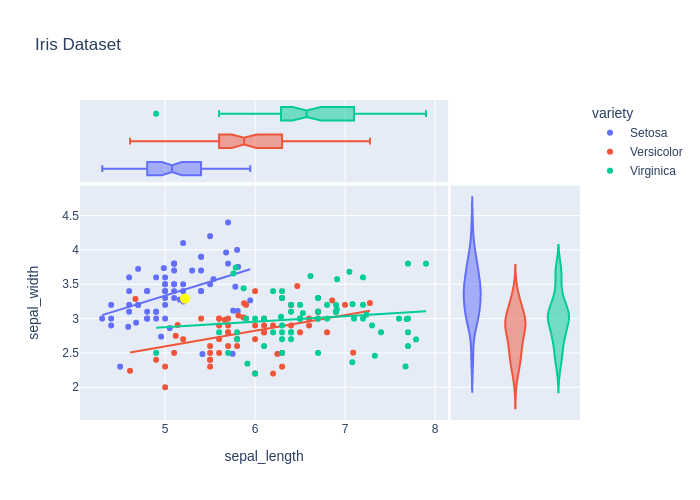
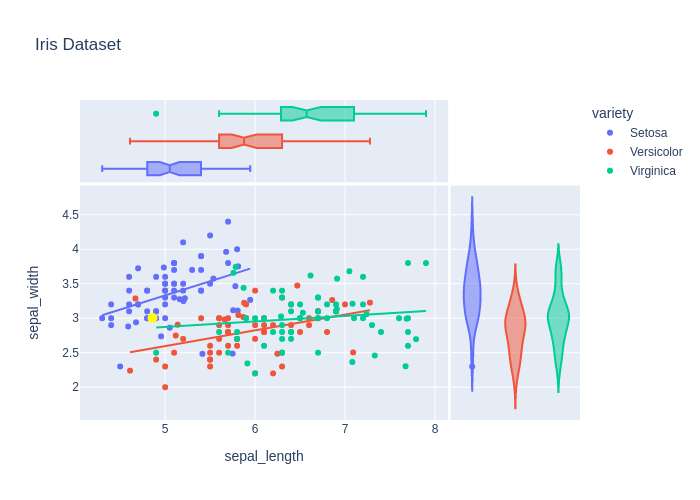
Automated graph published

diff --git a/assets/module1/html/index.html b/assets/module1/html/index.html
@@ -1,2 +1,2 @@
 <div>                        <script type="text/javascript">window.PlotlyConfig = {MathJaxConfig: 'local'};</script>
-        <script src="https://cdn.plot.ly/plotly-2.14.0.min.js"></script>                <div id="9e36800a-3b34-4723-9f38-1512f8856fb0" class="plotly-graph-div" style="height:100%; width:100%;"></div>            <script type="text/javascript">                                    window.PLOTLYENV=window.PLOTLYENV || {};                                    if (document.getElementById("9e36800a-3b34-4723-9f38-1512f8856fb0")) {                    Plotly.newPlot(                        "9e36800a-3b34-4723-9f38-1512f8856fb0",                        [{"hovertemplate":"variety=Setosa<br>sepal_length=%{x}<br>sepal_width=%{y}<extra></extra>","legendgroup":"Setosa","marker":{"color":"#636efa","symbol":"circle"},"mode":"markers","name":"Setosa","orientation":"v","showlegend":true,"x":[5.7,5.0,5.2,4.4,5.4,5.0,5.4,5.1,5.4,5.1,4.9,4.6,4.9,5.5,5.0,5.0,4.8,4.6,4.4,4.9,5.1,5.4,4.8,5.3,4.6,4.7,5.1,5.7,5.0,5.4,5.1,5.2,4.3,4.4,5.1,5.2,4.5,4.7,5.0,5.1,4.6,4.8,4.8,4.9,4.8,5.0,5.5,5.8,5.1,5.0,4.699539350414602,5.162807076989869,5.806816640770069,5.750154021366109,5.9456276792405935,5.678182494265637,5.780573675918045,5.7564843907007175,5.203711616532096,4.9552376142146795,4.676796886616282,4.589666446093098,5.051211752089524,5.536937030243903,5.811470592279962,4.985551259853457,5.4146729908847275,5.219559130208096],"xaxis":"x","y":[3.8,3.0,4.1,3.0,3.7,3.6,3.4,3.8,3.9,3.8,3.6,3.4,3.1,3.5,3.2,3.3,3.4,3.2,2.9,3.0,3.8,3.9,3.0,3.7,3.1,3.2,3.4,4.4,3.5,3.4,3.5,3.5,3.0,3.2,3.3,3.4,2.3,3.2,3.5,3.5,3.6,3.1,3.0,3.1,3.4,3.4,4.2,4.0,3.7,3.4,3.723655124379593,3.276133220743199,3.110153669496898,2.486839314450452,3.2651880571146235,3.96238612497271,3.464638931349484,3.1156627605998244,3.248892124865317,2.7372650288298774,2.9399118270607505,2.880148538126252,2.862281216018885,3.574418822591329,3.752241675217813,3.7352701566927387,2.4835906202389793,3.2895276088764325],"yaxis":"y","type":"scatter"},{"alignmentgroup":"True","hovertemplate":"variety=Setosa<br>sepal_length=%{x}<extra></extra>","legendgroup":"Setosa","marker":{"color":"#636efa","symbol":"circle"},"name":"Setosa","notched":true,"offsetgroup":"Setosa","showlegend":false,"x":[5.7,5.0,5.2,4.4,5.4,5.0,5.4,5.1,5.4,5.1,4.9,4.6,4.9,5.5,5.0,5.0,4.8,4.6,4.4,4.9,5.1,5.4,4.8,5.3,4.6,4.7,5.1,5.7,5.0,5.4,5.1,5.2,4.3,4.4,5.1,5.2,4.5,4.7,5.0,5.1,4.6,4.8,4.8,4.9,4.8,5.0,5.5,5.8,5.1,5.0,4.699539350414602,5.162807076989869,5.806816640770069,5.750154021366109,5.9456276792405935,5.678182494265637,5.780573675918045,5.7564843907007175,5.203711616532096,4.9552376142146795,4.676796886616282,4.589666446093098,5.051211752089524,5.536937030243903,5.811470592279962,4.985551259853457,5.4146729908847275,5.219559130208096],"xaxis":"x3","yaxis":"y3","type":"box"},{"alignmentgroup":"True","hovertemplate":"variety=Setosa<br>sepal_width=%{y}<extra></extra>","legendgroup":"Setosa","marker":{"color":"#636efa","symbol":"circle"},"name":"Setosa","offsetgroup":"Setosa","scalegroup":"y","showlegend":false,"xaxis":"x2","y":[3.8,3.0,4.1,3.0,3.7,3.6,3.4,3.8,3.9,3.8,3.6,3.4,3.1,3.5,3.2,3.3,3.4,3.2,2.9,3.0,3.8,3.9,3.0,3.7,3.1,3.2,3.4,4.4,3.5,3.4,3.5,3.5,3.0,3.2,3.3,3.4,2.3,3.2,3.5,3.5,3.6,3.1,3.0,3.1,3.4,3.4,4.2,4.0,3.7,3.4,3.723655124379593,3.276133220743199,3.110153669496898,2.486839314450452,3.2651880571146235,3.96238612497271,3.464638931349484,3.1156627605998244,3.248892124865317,2.7372650288298774,2.9399118270607505,2.880148538126252,2.862281216018885,3.574418822591329,3.752241675217813,3.7352701566927387,2.4835906202389793,3.2895276088764325],"yaxis":"y2","type":"violin"},{"hovertemplate":"<b>OLS trendline</b><br>sepal_width = 0.405631 * sepal_length + 1.3063<br>R<sup>2</sup>=0.164796<br><br>variety=Setosa<br>sepal_length=%{x}<br>sepal_width=%{y} <b>(trend)</b><extra></extra>","legendgroup":"Setosa","marker":{"color":"#636efa","symbol":"circle"},"mode":"lines","name":"Setosa","showlegend":false,"x":[4.3,4.4,4.4,4.4,4.5,4.589666446093098,4.6,4.6,4.6,4.6,4.676796886616282,4.699539350414602,4.7,4.7,4.8,4.8,4.8,4.8,4.8,4.9,4.9,4.9,4.9,4.9552376142146795,4.985551259853457,5.0,5.0,5.0,5.0,5.0,5.0,5.0,5.0,5.051211752089524,5.1,5.1,5.1,5.1,5.1,5.1,5.1,5.1,5.162807076989869,5.2,5.2,5.2,5.203711616532096,5.219559130208096,5.3,5.4,5.4,5.4,5.4,5.4,5.4146729908847275,5.5,5.5,5.536937030243903,5.678182494265637,5.7,5.7,5.750154021366109,5.7564843907007175,5.780573675918045,5.8,5.806816640770069,5.811470592279962,5.9456276792405935],"xaxis":"x","y":[3.0505084353418654,3.091071496918599,3.091071496918599,3.091071496918599,3.1316345584953327,3.1680060142377444,3.172197620072066,3.172197620072066,3.172197620072066,3.172197620072066,3.203348788479243,3.2125738280738214,3.2127606816487995,3.2127606816487995,3.2533237432255326,3.2533237432255326,3.2533237432255326,3.2533237432255326,3.2533237432255326,3.2938868048022663,3.2938868048022663,3.2938868048022663,3.2938868048022663,3.316292872269685,3.3285890150162953,3.334449866379,3.334449866379,3.334449866379,3.334449866379,3.334449866379,3.334449866379,3.334449866379,3.334449866379,3.3552229209135978,3.375012927955733,3.375012927955733,3.375012927955733,3.375012927955733,3.375012927955733,3.375012927955733,3.375012927955733,3.375012927955733,3.40048940126968,3.4155759895324667,3.4155759895324667,3.4155759895324667,3.417081534831873,3.42350977156265,3.4561390511092,3.4967021126859335,3.4967021126859335,3.4967021126859335,3.4967021126859335,3.4967021126859335,3.502653927013654,3.537265174262667,3.537265174262667,3.552247964585118,3.609541449130597,3.618391297416134,3.618391297416134,3.638735303986077,3.6413030955973085,3.651074447193408,3.658954358992867,3.661719397185895,3.663607182402604,3.718025404195997],"yaxis":"y","type":"scatter"},{"hovertemplate":"variety=Versicolor<br>sepal_length=%{x}<br>sepal_width=%{y}<extra></extra>","legendgroup":"Versicolor","marker":{"color":"#EF553B","symbol":"circle"},"mode":"markers","name":"Versicolor","orientation":"v","showlegend":true,"x":[5.6,6.0,6.4,6.3,5.9,5.5,5.9,5.8,5.7,6.3,6.6,6.5,6.2,6.1,5.6,5.8,5.0,5.7,6.4,5.5,6.3,5.2,6.8,6.1,5.7,5.0,5.7,6.7,5.5,5.1,5.7,6.9,6.6,6.7,5.6,7.0,6.0,6.1,5.6,4.9,5.4,6.1,6.7,5.6,5.5,6.0,5.5,6.0,6.2,5.8,6.8573386755067505,5.8782349607989435,6.4689894588721,7.276810343073624,5.139446204616327,7.090351228324162,4.6696109209307,6.248226118531116,5.814839575945616,5.118005992589361,4.609999008648176,5.86957722615493,5.662828279395641],"xaxis":"x","y":[2.7,2.9,2.9,3.3,3.2,2.5,3.0,2.7,2.6,2.3,3.0,2.8,2.2,3.0,2.5,2.7,2.0,2.8,3.2,2.4,2.5,2.7,2.8,2.9,2.9,2.3,2.8,3.1,2.3,2.5,3.0,3.1,2.9,3.0,2.9,3.2,2.2,2.8,3.0,2.4,3.0,2.8,3.1,3.0,2.4,3.4,2.6,2.7,2.9,2.6,3.2639658713312505,3.2232742101927987,3.473135931667606,3.226171473129222,2.905989064433107,2.503803983888786,3.2862947180268547,2.4850753277015176,3.045103887735798,2.7488411462004874,2.239757316816931,3.016997980554853,2.9821991083457675],"yaxis":"y","type":"scatter"},{"alignmentgroup":"True","hovertemplate":"variety=Versicolor<br>sepal_length=%{x}<extra></extra>","legendgroup":"Versicolor","marker":{"color":"#EF553B","symbol":"circle"},"name":"Versicolor","notched":true,"offsetgroup":"Versicolor","showlegend":false,"x":[5.6,6.0,6.4,6.3,5.9,5.5,5.9,5.8,5.7,6.3,6.6,6.5,6.2,6.1,5.6,5.8,5.0,5.7,6.4,5.5,6.3,5.2,6.8,6.1,5.7,5.0,5.7,6.7,5.5,5.1,5.7,6.9,6.6,6.7,5.6,7.0,6.0,6.1,5.6,4.9,5.4,6.1,6.7,5.6,5.5,6.0,5.5,6.0,6.2,5.8,6.8573386755067505,5.8782349607989435,6.4689894588721,7.276810343073624,5.139446204616327,7.090351228324162,4.6696109209307,6.248226118531116,5.814839575945616,5.118005992589361,4.609999008648176,5.86957722615493,5.662828279395641],"xaxis":"x3","yaxis":"y3","type":"box"},{"alignmentgroup":"True","hovertemplate":"variety=Versicolor<br>sepal_width=%{y}<extra></extra>","legendgroup":"Versicolor","marker":{"color":"#EF553B","symbol":"circle"},"name":"Versicolor","offsetgroup":"Versicolor","scalegroup":"y","showlegend":false,"xaxis":"x2","y":[2.7,2.9,2.9,3.3,3.2,2.5,3.0,2.7,2.6,2.3,3.0,2.8,2.2,3.0,2.5,2.7,2.0,2.8,3.2,2.4,2.5,2.7,2.8,2.9,2.9,2.3,2.8,3.1,2.3,2.5,3.0,3.1,2.9,3.0,2.9,3.2,2.2,2.8,3.0,2.4,3.0,2.8,3.1,3.0,2.4,3.4,2.6,2.7,2.9,2.6,3.2639658713312505,3.2232742101927987,3.473135931667606,3.226171473129222,2.905989064433107,2.503803983888786,3.2862947180268547,2.4850753277015176,3.045103887735798,2.7488411462004874,2.239757316816931,3.016997980554853,2.9821991083457675],"yaxis":"y2","type":"violin"},{"hovertemplate":"<b>OLS trendline</b><br>sepal_width = 0.228239 * sepal_length + 1.4548<br>R<sup>2</sup>=0.170212<br><br>variety=Versicolor<br>sepal_length=%{x}<br>sepal_width=%{y} <b>(trend)</b><extra></extra>","legendgroup":"Versicolor","marker":{"color":"#EF553B","symbol":"circle"},"mode":"lines","name":"Versicolor","showlegend":false,"x":[4.609999008648176,4.6696109209307,4.9,5.0,5.0,5.1,5.118005992589361,5.139446204616327,5.2,5.4,5.5,5.5,5.5,5.5,5.5,5.6,5.6,5.6,5.6,5.6,5.662828279395641,5.7,5.7,5.7,5.7,5.7,5.8,5.8,5.8,5.814839575945616,5.86957722615493,5.8782349607989435,5.9,5.9,6.0,6.0,6.0,6.0,6.1,6.1,6.1,6.1,6.2,6.2,6.248226118531116,6.3,6.3,6.3,6.4,6.4,6.4689894588721,6.5,6.6,6.6,6.7,6.7,6.7,6.8,6.8573386755067505,6.9,7.0,7.090351228324162,7.276810343073624],"xaxis":"x","y":[2.50698167709944,2.5205874149002385,2.573171089571302,2.595994946884107,2.595994946884107,2.618818804196912,2.6229284662532617,2.6278219496538595,2.6416426615097173,2.6872903761353277,2.7101142334481327,2.7101142334481327,2.7101142334481327,2.7101142334481327,2.7101142334481327,2.732938090760938,2.732938090760938,2.732938090760938,2.732938090760938,2.732938090760938,2.7472779276022896,2.755761948073743,2.755761948073743,2.755761948073743,2.755761948073743,2.755761948073743,2.778585805386548,2.778585805386548,2.778585805386548,2.781972769026201,2.7944660122063576,2.7964420412080284,2.8014096626993537,2.8014096626993537,2.824233520012159,2.824233520012159,2.824233520012159,2.824233520012159,2.847057377324964,2.847057377324964,2.847057377324964,2.847057377324964,2.869881234637769,2.869881234637769,2.8808882951188157,2.8927050919505746,2.8927050919505746,2.8927050919505746,2.91552894926338,2.91552894926338,2.9312750049172243,2.938352806576185,2.96117666388899,2.96117666388899,2.9840005212017955,2.9840005212017955,2.9840005212017955,3.0068243785146005,3.0199112759973135,3.029648235827406,3.052472093140211,3.0730937285732844,3.1156508908704215],"yaxis":"y","type":"scatter"},{"hovertemplate":"variety=Virginica<br>sepal_length=%{x}<br>sepal_width=%{y}<extra></extra>","legendgroup":"Virginica","marker":{"color":"#00cc96","symbol":"circle"},"mode":"markers","name":"Virginica","orientation":"v","showlegend":true,"x":[6.3,7.2,6.5,6.4,6.1,5.8,6.5,6.3,6.8,7.1,6.7,6.5,7.7,6.4,5.6,5.9,6.2,6.1,6.7,7.7,6.8,5.8,7.6,6.3,6.0,6.7,4.9,7.3,7.2,7.7,6.4,7.9,6.7,6.4,6.0,6.7,6.9,6.9,6.3,7.7,6.9,6.3,7.2,7.4,6.3,5.7,6.2,6.5,6.4,7.0809193435057844,7.083173588303286,6.531247271426038,7.672934707178735,6.616221396434428,6.2881911448763015,7.238706989249322,6.90906910202694,7.684772414682669,5.87232495943579,5.759085295754035,5.914173836043854,5.784761157227475,7.330621751983531,6.911589973694344,7.78951313611976,7.048675134000101],"xaxis":"x","y":[3.3,3.0,3.0,2.8,2.6,2.7,3.0,2.5,3.2,3.0,3.1,3.2,3.8,3.2,2.8,3.0,3.4,3.0,3.3,3.0,3.0,2.8,3.0,2.7,3.0,3.3,2.5,2.9,3.2,2.6,3.1,3.8,2.5,2.7,2.2,3.0,3.2,3.1,2.8,2.8,3.1,3.4,3.6,2.8,2.9,2.5,2.8,3.0,2.8,2.364774618887905,3.20977222695023,3.0790349799807095,2.303166383713453,3.618727239236774,3.0262152412720584,3.058037433028688,3.132485473954982,2.9929238355741736,3.440406497670909,3.6572642225436693,2.344429562939209,3.7433242436796372,2.458916076656201,3.5731428078520726,2.696475852448689,3.6811832985059967],"yaxis":"y","type":"scatter"},{"alignmentgroup":"True","hovertemplate":"variety=Virginica<br>sepal_length=%{x}<extra></extra>","legendgroup":"Virginica","marker":{"color":"#00cc96","symbol":"circle"},"name":"Virginica","notched":true,"offsetgroup":"Virginica","showlegend":false,"x":[6.3,7.2,6.5,6.4,6.1,5.8,6.5,6.3,6.8,7.1,6.7,6.5,7.7,6.4,5.6,5.9,6.2,6.1,6.7,7.7,6.8,5.8,7.6,6.3,6.0,6.7,4.9,7.3,7.2,7.7,6.4,7.9,6.7,6.4,6.0,6.7,6.9,6.9,6.3,7.7,6.9,6.3,7.2,7.4,6.3,5.7,6.2,6.5,6.4,7.0809193435057844,7.083173588303286,6.531247271426038,7.672934707178735,6.616221396434428,6.2881911448763015,7.238706989249322,6.90906910202694,7.684772414682669,5.87232495943579,5.759085295754035,5.914173836043854,5.784761157227475,7.330621751983531,6.911589973694344,7.78951313611976,7.048675134000101],"xaxis":"x3","yaxis":"y3","type":"box"},{"alignmentgroup":"True","hovertemplate":"variety=Virginica<br>sepal_width=%{y}<extra></extra>","legendgroup":"Virginica","marker":{"color":"#00cc96","symbol":"circle"},"name":"Virginica","offsetgroup":"Virginica","scalegroup":"y","showlegend":false,"xaxis":"x2","y":[3.3,3.0,3.0,2.8,2.6,2.7,3.0,2.5,3.2,3.0,3.1,3.2,3.8,3.2,2.8,3.0,3.4,3.0,3.3,3.0,3.0,2.8,3.0,2.7,3.0,3.3,2.5,2.9,3.2,2.6,3.1,3.8,2.5,2.7,2.2,3.0,3.2,3.1,2.8,2.8,3.1,3.4,3.6,2.8,2.9,2.5,2.8,3.0,2.8,2.364774618887905,3.20977222695023,3.0790349799807095,2.303166383713453,3.618727239236774,3.0262152412720584,3.058037433028688,3.132485473954982,2.9929238355741736,3.440406497670909,3.6572642225436693,2.344429562939209,3.7433242436796372,2.458916076656201,3.5731428078520726,2.696475852448689,3.6811832985059967],"yaxis":"y2","type":"violin"},{"hovertemplate":"<b>OLS trendline</b><br>sepal_width = 0.0800822 * sepal_length + 2.47295<br>R<sup>2</sup>=0.018895<br><br>variety=Virginica<br>sepal_length=%{x}<br>sepal_width=%{y} <b>(trend)</b><extra></extra>","legendgroup":"Virginica","marker":{"color":"#00cc96","symbol":"circle"},"mode":"lines","name":"Virginica","showlegend":false,"x":[4.9,5.6,5.7,5.759085295754035,5.784761157227475,5.8,5.8,5.87232495943579,5.9,5.914173836043854,6.0,6.0,6.1,6.1,6.2,6.2,6.2881911448763015,6.3,6.3,6.3,6.3,6.3,6.3,6.4,6.4,6.4,6.4,6.4,6.5,6.5,6.5,6.5,6.531247271426038,6.616221396434428,6.7,6.7,6.7,6.7,6.7,6.8,6.8,6.9,6.9,6.9,6.90906910202694,6.911589973694344,7.048675134000101,7.0809193435057844,7.083173588303286,7.1,7.2,7.2,7.2,7.238706989249322,7.3,7.330621751983531,7.4,7.6,7.672934707178735,7.684772414682669,7.7,7.7,7.7,7.7,7.78951313611976,7.9],"xaxis":"x","y":[2.865355961001777,2.9214134781292027,2.9294216948616922,2.9341533734027077,2.9362095520374343,2.9374299115941813,2.9374299115941813,2.943221851097485,2.945438128326671,2.9465731998363704,2.9534463450591604,2.9534463450591604,2.9614545617916495,2.9614545617916495,2.969462778524139,2.969462778524139,2.976525316544697,2.9774709952566285,2.9774709952566285,2.9774709952566285,2.9774709952566285,2.9774709952566285,2.9774709952566285,2.985479211989118,2.985479211989118,2.985479211989118,2.985479211989118,2.985479211989118,2.9934874287216076,2.9934874287216076,2.9934874287216076,2.9934874287216076,2.9959897779403937,3.002794690037602,3.009503862186586,3.009503862186586,3.009503862186586,3.009503862186586,3.009503862186586,3.0175120789190757,3.0175120789190757,3.0255202956515648,3.0255202956515648,3.0255202956515648,3.026246568997573,3.0264484458642467,3.037426522609612,3.040008708790505,3.0401892335995697,3.041536729116544,3.0495449458490334,3.0495449458490334,3.0495449458490334,3.0526446854387403,3.0575531625815224,3.0600054188476493,3.065561379314012,3.081577812778991,3.08741858220307,3.0883665714761435,3.08958602951148,3.08958602951148,3.08958602951148,3.08958602951148,3.096754435455999,3.105602462976459],"yaxis":"y","type":"scatter"},{"hovertemplate":"sepal_length=%{x}<br>sepal_width=%{y}<extra></extra>","legendgroup":"","marker":{"color":"yellow","size":10,"symbol":"circle"},"mode":"markers","name":"","orientation":"v","showlegend":false,"x":[5.219559130208096],"xaxis":"x","y":[3.2895276088764325],"yaxis":"y","type":"scatter"}],                        {"template":{"data":{"histogram2dcontour":[{"type":"histogram2dcontour","colorbar":{"outlinewidth":0,"ticks":""},"colorscale":[[0.0,"#0d0887"],[0.1111111111111111,"#46039f"],[0.2222222222222222,"#7201a8"],[0.3333333333333333,"#9c179e"],[0.4444444444444444,"#bd3786"],[0.5555555555555556,"#d8576b"],[0.6666666666666666,"#ed7953"],[0.7777777777777778,"#fb9f3a"],[0.8888888888888888,"#fdca26"],[1.0,"#f0f921"]]}],"choropleth":[{"type":"choropleth","colorbar":{"outlinewidth":0,"ticks":""}}],"histogram2d":[{"type":"histogram2d","colorbar":{"outlinewidth":0,"ticks":""},"colorscale":[[0.0,"#0d0887"],[0.1111111111111111,"#46039f"],[0.2222222222222222,"#7201a8"],[0.3333333333333333,"#9c179e"],[0.4444444444444444,"#bd3786"],[0.5555555555555556,"#d8576b"],[0.6666666666666666,"#ed7953"],[0.7777777777777778,"#fb9f3a"],[0.8888888888888888,"#fdca26"],[1.0,"#f0f921"]]}],"heatmap":[{"type":"heatmap","colorbar":{"outlinewidth":0,"ticks":""},"colorscale":[[0.0,"#0d0887"],[0.1111111111111111,"#46039f"],[0.2222222222222222,"#7201a8"],[0.3333333333333333,"#9c179e"],[0.4444444444444444,"#bd3786"],[0.5555555555555556,"#d8576b"],[0.6666666666666666,"#ed7953"],[0.7777777777777778,"#fb9f3a"],[0.8888888888888888,"#fdca26"],[1.0,"#f0f921"]]}],"heatmapgl":[{"type":"heatmapgl","colorbar":{"outlinewidth":0,"ticks":""},"colorscale":[[0.0,"#0d0887"],[0.1111111111111111,"#46039f"],[0.2222222222222222,"#7201a8"],[0.3333333333333333,"#9c179e"],[0.4444444444444444,"#bd3786"],[0.5555555555555556,"#d8576b"],[0.6666666666666666,"#ed7953"],[0.7777777777777778,"#fb9f3a"],[0.8888888888888888,"#fdca26"],[1.0,"#f0f921"]]}],"contourcarpet":[{"type":"contourcarpet","colorbar":{"outlinewidth":0,"ticks":""}}],"contour":[{"type":"contour","colorbar":{"outlinewidth":0,"ticks":""},"colorscale":[[0.0,"#0d0887"],[0.1111111111111111,"#46039f"],[0.2222222222222222,"#7201a8"],[0.3333333333333333,"#9c179e"],[0.4444444444444444,"#bd3786"],[0.5555555555555556,"#d8576b"],[0.6666666666666666,"#ed7953"],[0.7777777777777778,"#fb9f3a"],[0.8888888888888888,"#fdca26"],[1.0,"#f0f921"]]}],"surface":[{"type":"surface","colorbar":{"outlinewidth":0,"ticks":""},"colorscale":[[0.0,"#0d0887"],[0.1111111111111111,"#46039f"],[0.2222222222222222,"#7201a8"],[0.3333333333333333,"#9c179e"],[0.4444444444444444,"#bd3786"],[0.5555555555555556,"#d8576b"],[0.6666666666666666,"#ed7953"],[0.7777777777777778,"#fb9f3a"],[0.8888888888888888,"#fdca26"],[1.0,"#f0f921"]]}],"mesh3d":[{"type":"mesh3d","colorbar":{"outlinewidth":0,"ticks":""}}],"scatter":[{"fillpattern":{"fillmode":"overlay","size":10,"solidity":0.2},"type":"scatter"}],"parcoords":[{"type":"parcoords","line":{"colorbar":{"outlinewidth":0,"ticks":""}}}],"scatterpolargl":[{"type":"scatterpolargl","marker":{"colorbar":{"outlinewidth":0,"ticks":""}}}],"bar":[{"error_x":{"color":"#2a3f5f"},"error_y":{"color":"#2a3f5f"},"marker":{"line":{"color":"#E5ECF6","width":0.5},"pattern":{"fillmode":"overlay","size":10,"solidity":0.2}},"type":"bar"}],"scattergeo":[{"type":"scattergeo","marker":{"colorbar":{"outlinewidth":0,"ticks":""}}}],"scatterpolar":[{"type":"scatterpolar","marker":{"colorbar":{"outlinewidth":0,"ticks":""}}}],"histogram":[{"marker":{"pattern":{"fillmode":"overlay","size":10,"solidity":0.2}},"type":"histogram"}],"scattergl":[{"type":"scattergl","marker":{"colorbar":{"outlinewidth":0,"ticks":""}}}],"scatter3d":[{"type":"scatter3d","line":{"colorbar":{"outlinewidth":0,"ticks":""}},"marker":{"colorbar":{"outlinewidth":0,"ticks":""}}}],"scattermapbox":[{"type":"scattermapbox","marker":{"colorbar":{"outlinewidth":0,"ticks":""}}}],"scatterternary":[{"type":"scatterternary","marker":{"colorbar":{"outlinewidth":0,"ticks":""}}}],"scattercarpet":[{"type":"scattercarpet","marker":{"colorbar":{"outlinewidth":0,"ticks":""}}}],"carpet":[{"aaxis":{"endlinecolor":"#2a3f5f","gridcolor":"white","linecolor":"white","minorgridcolor":"white","startlinecolor":"#2a3f5f"},"baxis":{"endlinecolor":"#2a3f5f","gridcolor":"white","linecolor":"white","minorgridcolor":"white","startlinecolor":"#2a3f5f"},"type":"carpet"}],"table":[{"cells":{"fill":{"color":"#EBF0F8"},"line":{"color":"white"}},"header":{"fill":{"color":"#C8D4E3"},"line":{"color":"white"}},"type":"table"}],"barpolar":[{"marker":{"line":{"color":"#E5ECF6","width":0.5},"pattern":{"fillmode":"overlay","size":10,"solidity":0.2}},"type":"barpolar"}],"pie":[{"automargin":true,"type":"pie"}]},"layout":{"autotypenumbers":"strict","colorway":["#636efa","#EF553B","#00cc96","#ab63fa","#FFA15A","#19d3f3","#FF6692","#B6E880","#FF97FF","#FECB52"],"font":{"color":"#2a3f5f"},"hovermode":"closest","hoverlabel":{"align":"left"},"paper_bgcolor":"white","plot_bgcolor":"#E5ECF6","polar":{"bgcolor":"#E5ECF6","angularaxis":{"gridcolor":"white","linecolor":"white","ticks":""},"radialaxis":{"gridcolor":"white","linecolor":"white","ticks":""}},"ternary":{"bgcolor":"#E5ECF6","aaxis":{"gridcolor":"white","linecolor":"white","ticks":""},"baxis":{"gridcolor":"white","linecolor":"white","ticks":""},"caxis":{"gridcolor":"white","linecolor":"white","ticks":""}},"coloraxis":{"colorbar":{"outlinewidth":0,"ticks":""}},"colorscale":{"sequential":[[0.0,"#0d0887"],[0.1111111111111111,"#46039f"],[0.2222222222222222,"#7201a8"],[0.3333333333333333,"#9c179e"],[0.4444444444444444,"#bd3786"],[0.5555555555555556,"#d8576b"],[0.6666666666666666,"#ed7953"],[0.7777777777777778,"#fb9f3a"],[0.8888888888888888,"#fdca26"],[1.0,"#f0f921"]],"sequentialminus":[[0.0,"#0d0887"],[0.1111111111111111,"#46039f"],[0.2222222222222222,"#7201a8"],[0.3333333333333333,"#9c179e"],[0.4444444444444444,"#bd3786"],[0.5555555555555556,"#d8576b"],[0.6666666666666666,"#ed7953"],[0.7777777777777778,"#fb9f3a"],[0.8888888888888888,"#fdca26"],[1.0,"#f0f921"]],"diverging":[[0,"#8e0152"],[0.1,"#c51b7d"],[0.2,"#de77ae"],[0.3,"#f1b6da"],[0.4,"#fde0ef"],[0.5,"#f7f7f7"],[0.6,"#e6f5d0"],[0.7,"#b8e186"],[0.8,"#7fbc41"],[0.9,"#4d9221"],[1,"#276419"]]},"xaxis":{"gridcolor":"white","linecolor":"white","ticks":"","title":{"standoff":15},"zerolinecolor":"white","automargin":true,"zerolinewidth":2},"yaxis":{"gridcolor":"white","linecolor":"white","ticks":"","title":{"standoff":15},"zerolinecolor":"white","automargin":true,"zerolinewidth":2},"scene":{"xaxis":{"backgroundcolor":"#E5ECF6","gridcolor":"white","linecolor":"white","showbackground":true,"ticks":"","zerolinecolor":"white","gridwidth":2},"yaxis":{"backgroundcolor":"#E5ECF6","gridcolor":"white","linecolor":"white","showbackground":true,"ticks":"","zerolinecolor":"white","gridwidth":2},"zaxis":{"backgroundcolor":"#E5ECF6","gridcolor":"white","linecolor":"white","showbackground":true,"ticks":"","zerolinecolor":"white","gridwidth":2}},"shapedefaults":{"line":{"color":"#2a3f5f"}},"annotationdefaults":{"arrowcolor":"#2a3f5f","arrowhead":0,"arrowwidth":1},"geo":{"bgcolor":"white","landcolor":"#E5ECF6","subunitcolor":"white","showland":true,"showlakes":true,"lakecolor":"white"},"title":{"x":0.05},"mapbox":{"style":"light"}}},"xaxis":{"anchor":"y","domain":[0.0,0.7363],"title":{"text":"sepal_length"}},"yaxis":{"anchor":"x","domain":[0.0,0.7326],"title":{"text":"sepal_width"}},"xaxis2":{"anchor":"y2","domain":[0.7413,1.0],"matches":"x2","showticklabels":false,"showline":false,"ticks":"","showgrid":false},"yaxis2":{"anchor":"x2","domain":[0.0,0.7326],"matches":"y","showticklabels":false,"showgrid":true},"xaxis3":{"anchor":"y3","domain":[0.0,0.7363],"matches":"x","showticklabels":false,"showgrid":true},"yaxis3":{"anchor":"x3","domain":[0.7426,1.0],"matches":"y3","showticklabels":false,"showline":false,"ticks":"","showgrid":false},"xaxis4":{"anchor":"y4","domain":[0.7413,1.0],"matches":"x2","showticklabels":false,"showgrid":false,"showline":false,"ticks":""},"yaxis4":{"anchor":"x4","domain":[0.7426,1.0],"matches":"y3","showticklabels":false,"showline":false,"ticks":"","showgrid":true},"legend":{"title":{"text":"variety"},"tracegroupgap":0},"title":{"text":"Iris Dataset"}},                        {"responsive": true}                    )                };                            </script>        </div>
+        <script src="https://cdn.plot.ly/plotly-2.14.0.min.js"></script>                <div id="e5be6df6-5253-4a8c-a125-88aa2a010157" class="plotly-graph-div" style="height:100%; width:100%;"></div>            <script type="text/javascript">                                    window.PLOTLYENV=window.PLOTLYENV || {};                                    if (document.getElementById("e5be6df6-5253-4a8c-a125-88aa2a010157")) {                    Plotly.newPlot(                        "e5be6df6-5253-4a8c-a125-88aa2a010157",                        [{"hovertemplate":"variety=Setosa<br>sepal_length=%{x}<br>sepal_width=%{y}<extra></extra>","legendgroup":"Setosa","marker":{"color":"#636efa","symbol":"circle"},"mode":"markers","name":"Setosa","orientation":"v","showlegend":true,"x":[5.7,5.0,5.2,4.4,5.4,5.0,5.4,5.1,5.4,5.1,4.9,4.6,4.9,5.5,5.0,5.0,4.8,4.6,4.4,4.9,5.1,5.4,4.8,5.3,4.6,4.7,5.1,5.7,5.0,5.4,5.1,5.2,4.3,4.4,5.1,5.2,4.5,4.7,5.0,5.1,4.6,4.8,4.8,4.9,4.8,5.0,5.5,5.8,5.1,5.0,4.699539350414602,5.162807076989869,5.806816640770069,5.750154021366109,5.9456276792405935,5.678182494265637,5.780573675918045,5.7564843907007175,5.203711616532096,4.9552376142146795,4.676796886616282,4.589666446093098,5.051211752089524,5.536937030243903,5.811470592279962,4.985551259853457,5.4146729908847275,5.219559130208096,4.859736966382209],"xaxis":"x","y":[3.8,3.0,4.1,3.0,3.7,3.6,3.4,3.8,3.9,3.8,3.6,3.4,3.1,3.5,3.2,3.3,3.4,3.2,2.9,3.0,3.8,3.9,3.0,3.7,3.1,3.2,3.4,4.4,3.5,3.4,3.5,3.5,3.0,3.2,3.3,3.4,2.3,3.2,3.5,3.5,3.6,3.1,3.0,3.1,3.4,3.4,4.2,4.0,3.7,3.4,3.723655124379593,3.276133220743199,3.110153669496898,2.486839314450452,3.2651880571146235,3.96238612497271,3.464638931349484,3.1156627605998244,3.248892124865317,2.7372650288298774,2.9399118270607505,2.880148538126252,2.862281216018885,3.574418822591329,3.752241675217813,3.7352701566927387,2.4835906202389793,3.2895276088764325,3.0049918169979595],"yaxis":"y","type":"scatter"},{"alignmentgroup":"True","hovertemplate":"variety=Setosa<br>sepal_length=%{x}<extra></extra>","legendgroup":"Setosa","marker":{"color":"#636efa","symbol":"circle"},"name":"Setosa","notched":true,"offsetgroup":"Setosa","showlegend":false,"x":[5.7,5.0,5.2,4.4,5.4,5.0,5.4,5.1,5.4,5.1,4.9,4.6,4.9,5.5,5.0,5.0,4.8,4.6,4.4,4.9,5.1,5.4,4.8,5.3,4.6,4.7,5.1,5.7,5.0,5.4,5.1,5.2,4.3,4.4,5.1,5.2,4.5,4.7,5.0,5.1,4.6,4.8,4.8,4.9,4.8,5.0,5.5,5.8,5.1,5.0,4.699539350414602,5.162807076989869,5.806816640770069,5.750154021366109,5.9456276792405935,5.678182494265637,5.780573675918045,5.7564843907007175,5.203711616532096,4.9552376142146795,4.676796886616282,4.589666446093098,5.051211752089524,5.536937030243903,5.811470592279962,4.985551259853457,5.4146729908847275,5.219559130208096,4.859736966382209],"xaxis":"x3","yaxis":"y3","type":"box"},{"alignmentgroup":"True","hovertemplate":"variety=Setosa<br>sepal_width=%{y}<extra></extra>","legendgroup":"Setosa","marker":{"color":"#636efa","symbol":"circle"},"name":"Setosa","offsetgroup":"Setosa","scalegroup":"y","showlegend":false,"xaxis":"x2","y":[3.8,3.0,4.1,3.0,3.7,3.6,3.4,3.8,3.9,3.8,3.6,3.4,3.1,3.5,3.2,3.3,3.4,3.2,2.9,3.0,3.8,3.9,3.0,3.7,3.1,3.2,3.4,4.4,3.5,3.4,3.5,3.5,3.0,3.2,3.3,3.4,2.3,3.2,3.5,3.5,3.6,3.1,3.0,3.1,3.4,3.4,4.2,4.0,3.7,3.4,3.723655124379593,3.276133220743199,3.110153669496898,2.486839314450452,3.2651880571146235,3.96238612497271,3.464638931349484,3.1156627605998244,3.248892124865317,2.7372650288298774,2.9399118270607505,2.880148538126252,2.862281216018885,3.574418822591329,3.752241675217813,3.7352701566927387,2.4835906202389793,3.2895276088764325,3.0049918169979595],"yaxis":"y2","type":"violin"},{"hovertemplate":"<b>OLS trendline</b><br>sepal_width = 0.411375 * sepal_length + 1.27311<br>R<sup>2</sup>=0.168271<br><br>variety=Setosa<br>sepal_length=%{x}<br>sepal_width=%{y} <b>(trend)</b><extra></extra>","legendgroup":"Setosa","marker":{"color":"#636efa","symbol":"circle"},"mode":"lines","name":"Setosa","showlegend":false,"x":[4.3,4.4,4.4,4.4,4.5,4.589666446093098,4.6,4.6,4.6,4.6,4.676796886616282,4.699539350414602,4.7,4.7,4.8,4.8,4.8,4.8,4.8,4.859736966382209,4.9,4.9,4.9,4.9,4.9552376142146795,4.985551259853457,5.0,5.0,5.0,5.0,5.0,5.0,5.0,5.0,5.051211752089524,5.1,5.1,5.1,5.1,5.1,5.1,5.1,5.1,5.162807076989869,5.2,5.2,5.2,5.203711616532096,5.219559130208096,5.3,5.4,5.4,5.4,5.4,5.4,5.4146729908847275,5.5,5.5,5.536937030243903,5.678182494265637,5.7,5.7,5.750154021366109,5.7564843907007175,5.780573675918045,5.8,5.806816640770069,5.811470592279962,5.9456276792405935],"xaxis":"x","y":[3.0420219982213546,3.083159534607605,3.083159534607605,3.083159534607605,3.124297070993855,3.1611836378816607,3.165434607380105,3.165434607380105,3.165434607380105,3.165434607380105,3.1970269545553855,3.206382643875549,3.2065721437663557,3.2065721437663557,3.2477096801526057,3.2477096801526057,3.2477096801526057,3.2477096801526057,3.2477096801526057,3.272283996434129,3.288847216538856,3.288847216538856,3.288847216538856,3.288847216538856,3.311570610185316,3.324040897189967,3.329984752925106,3.329984752925106,3.329984752925106,3.329984752925106,3.329984752925106,3.329984752925106,3.329984752925106,3.329984752925106,3.35105200607497,3.371122289311356,3.371122289311356,3.371122289311356,3.371122289311356,3.371122289311356,3.371122289311356,3.371122289311356,3.371122289311356,3.3969595734612037,3.412259825697606,3.412259825697606,3.412259825697606,3.4137866932990155,3.4203059700037954,3.453397362083856,3.494534898470107,3.494534898470107,3.494534898470107,3.494534898470107,3.494534898470107,3.5005710054342627,3.535672434856357,3.535672434856357,3.550867419112943,3.6089723232688113,3.617947507628857,3.617947507628857,3.638579636417508,3.641183794405916,3.6510935328773817,3.6590850440151073,3.6618892420922142,3.663803763087995,3.718992683551158],"yaxis":"y","type":"scatter"},{"hovertemplate":"variety=Versicolor<br>sepal_length=%{x}<br>sepal_width=%{y}<extra></extra>","legendgroup":"Versicolor","marker":{"color":"#EF553B","symbol":"circle"},"mode":"markers","name":"Versicolor","orientation":"v","showlegend":true,"x":[5.6,6.0,6.4,6.3,5.9,5.5,5.9,5.8,5.7,6.3,6.6,6.5,6.2,6.1,5.6,5.8,5.0,5.7,6.4,5.5,6.3,5.2,6.8,6.1,5.7,5.0,5.7,6.7,5.5,5.1,5.7,6.9,6.6,6.7,5.6,7.0,6.0,6.1,5.6,4.9,5.4,6.1,6.7,5.6,5.5,6.0,5.5,6.0,6.2,5.8,6.8573386755067505,5.8782349607989435,6.4689894588721,7.276810343073624,5.139446204616327,7.090351228324162,4.6696109209307,6.248226118531116,5.814839575945616,5.118005992589361,4.609999008648176,5.86957722615493,5.662828279395641],"xaxis":"x","y":[2.7,2.9,2.9,3.3,3.2,2.5,3.0,2.7,2.6,2.3,3.0,2.8,2.2,3.0,2.5,2.7,2.0,2.8,3.2,2.4,2.5,2.7,2.8,2.9,2.9,2.3,2.8,3.1,2.3,2.5,3.0,3.1,2.9,3.0,2.9,3.2,2.2,2.8,3.0,2.4,3.0,2.8,3.1,3.0,2.4,3.4,2.6,2.7,2.9,2.6,3.2639658713312505,3.2232742101927987,3.473135931667606,3.226171473129222,2.905989064433107,2.503803983888786,3.2862947180268547,2.4850753277015176,3.045103887735798,2.7488411462004874,2.239757316816931,3.016997980554853,2.9821991083457675],"yaxis":"y","type":"scatter"},{"alignmentgroup":"True","hovertemplate":"variety=Versicolor<br>sepal_length=%{x}<extra></extra>","legendgroup":"Versicolor","marker":{"color":"#EF553B","symbol":"circle"},"name":"Versicolor","notched":true,"offsetgroup":"Versicolor","showlegend":false,"x":[5.6,6.0,6.4,6.3,5.9,5.5,5.9,5.8,5.7,6.3,6.6,6.5,6.2,6.1,5.6,5.8,5.0,5.7,6.4,5.5,6.3,5.2,6.8,6.1,5.7,5.0,5.7,6.7,5.5,5.1,5.7,6.9,6.6,6.7,5.6,7.0,6.0,6.1,5.6,4.9,5.4,6.1,6.7,5.6,5.5,6.0,5.5,6.0,6.2,5.8,6.8573386755067505,5.8782349607989435,6.4689894588721,7.276810343073624,5.139446204616327,7.090351228324162,4.6696109209307,6.248226118531116,5.814839575945616,5.118005992589361,4.609999008648176,5.86957722615493,5.662828279395641],"xaxis":"x3","yaxis":"y3","type":"box"},{"alignmentgroup":"True","hovertemplate":"variety=Versicolor<br>sepal_width=%{y}<extra></extra>","legendgroup":"Versicolor","marker":{"color":"#EF553B","symbol":"circle"},"name":"Versicolor","offsetgroup":"Versicolor","scalegroup":"y","showlegend":false,"xaxis":"x2","y":[2.7,2.9,2.9,3.3,3.2,2.5,3.0,2.7,2.6,2.3,3.0,2.8,2.2,3.0,2.5,2.7,2.0,2.8,3.2,2.4,2.5,2.7,2.8,2.9,2.9,2.3,2.8,3.1,2.3,2.5,3.0,3.1,2.9,3.0,2.9,3.2,2.2,2.8,3.0,2.4,3.0,2.8,3.1,3.0,2.4,3.4,2.6,2.7,2.9,2.6,3.2639658713312505,3.2232742101927987,3.473135931667606,3.226171473129222,2.905989064433107,2.503803983888786,3.2862947180268547,2.4850753277015176,3.045103887735798,2.7488411462004874,2.239757316816931,3.016997980554853,2.9821991083457675],"yaxis":"y2","type":"violin"},{"hovertemplate":"<b>OLS trendline</b><br>sepal_width = 0.228239 * sepal_length + 1.4548<br>R<sup>2</sup>=0.170212<br><br>variety=Versicolor<br>sepal_length=%{x}<br>sepal_width=%{y} <b>(trend)</b><extra></extra>","legendgroup":"Versicolor","marker":{"color":"#EF553B","symbol":"circle"},"mode":"lines","name":"Versicolor","showlegend":false,"x":[4.609999008648176,4.6696109209307,4.9,5.0,5.0,5.1,5.118005992589361,5.139446204616327,5.2,5.4,5.5,5.5,5.5,5.5,5.5,5.6,5.6,5.6,5.6,5.6,5.662828279395641,5.7,5.7,5.7,5.7,5.7,5.8,5.8,5.8,5.814839575945616,5.86957722615493,5.8782349607989435,5.9,5.9,6.0,6.0,6.0,6.0,6.1,6.1,6.1,6.1,6.2,6.2,6.248226118531116,6.3,6.3,6.3,6.4,6.4,6.4689894588721,6.5,6.6,6.6,6.7,6.7,6.7,6.8,6.8573386755067505,6.9,7.0,7.090351228324162,7.276810343073624],"xaxis":"x","y":[2.50698167709944,2.5205874149002385,2.573171089571302,2.595994946884107,2.595994946884107,2.618818804196912,2.6229284662532617,2.6278219496538595,2.6416426615097173,2.6872903761353277,2.7101142334481327,2.7101142334481327,2.7101142334481327,2.7101142334481327,2.7101142334481327,2.732938090760938,2.732938090760938,2.732938090760938,2.732938090760938,2.732938090760938,2.7472779276022896,2.755761948073743,2.755761948073743,2.755761948073743,2.755761948073743,2.755761948073743,2.778585805386548,2.778585805386548,2.778585805386548,2.781972769026201,2.7944660122063576,2.7964420412080284,2.8014096626993537,2.8014096626993537,2.824233520012159,2.824233520012159,2.824233520012159,2.824233520012159,2.847057377324964,2.847057377324964,2.847057377324964,2.847057377324964,2.869881234637769,2.869881234637769,2.8808882951188157,2.8927050919505746,2.8927050919505746,2.8927050919505746,2.91552894926338,2.91552894926338,2.9312750049172243,2.938352806576185,2.96117666388899,2.96117666388899,2.9840005212017955,2.9840005212017955,2.9840005212017955,3.0068243785146005,3.0199112759973135,3.029648235827406,3.052472093140211,3.0730937285732844,3.1156508908704215],"yaxis":"y","type":"scatter"},{"hovertemplate":"variety=Virginica<br>sepal_length=%{x}<br>sepal_width=%{y}<extra></extra>","legendgroup":"Virginica","marker":{"color":"#00cc96","symbol":"circle"},"mode":"markers","name":"Virginica","orientation":"v","showlegend":true,"x":[6.3,7.2,6.5,6.4,6.1,5.8,6.5,6.3,6.8,7.1,6.7,6.5,7.7,6.4,5.6,5.9,6.2,6.1,6.7,7.7,6.8,5.8,7.6,6.3,6.0,6.7,4.9,7.3,7.2,7.7,6.4,7.9,6.7,6.4,6.0,6.7,6.9,6.9,6.3,7.7,6.9,6.3,7.2,7.4,6.3,5.7,6.2,6.5,6.4,7.0809193435057844,7.083173588303286,6.531247271426038,7.672934707178735,6.616221396434428,6.2881911448763015,7.238706989249322,6.90906910202694,7.684772414682669,5.87232495943579,5.759085295754035,5.914173836043854,5.784761157227475,7.330621751983531,6.911589973694344,7.78951313611976,7.048675134000101],"xaxis":"x","y":[3.3,3.0,3.0,2.8,2.6,2.7,3.0,2.5,3.2,3.0,3.1,3.2,3.8,3.2,2.8,3.0,3.4,3.0,3.3,3.0,3.0,2.8,3.0,2.7,3.0,3.3,2.5,2.9,3.2,2.6,3.1,3.8,2.5,2.7,2.2,3.0,3.2,3.1,2.8,2.8,3.1,3.4,3.6,2.8,2.9,2.5,2.8,3.0,2.8,2.364774618887905,3.20977222695023,3.0790349799807095,2.303166383713453,3.618727239236774,3.0262152412720584,3.058037433028688,3.132485473954982,2.9929238355741736,3.440406497670909,3.6572642225436693,2.344429562939209,3.7433242436796372,2.458916076656201,3.5731428078520726,2.696475852448689,3.6811832985059967],"yaxis":"y","type":"scatter"},{"alignmentgroup":"True","hovertemplate":"variety=Virginica<br>sepal_length=%{x}<extra></extra>","legendgroup":"Virginica","marker":{"color":"#00cc96","symbol":"circle"},"name":"Virginica","notched":true,"offsetgroup":"Virginica","showlegend":false,"x":[6.3,7.2,6.5,6.4,6.1,5.8,6.5,6.3,6.8,7.1,6.7,6.5,7.7,6.4,5.6,5.9,6.2,6.1,6.7,7.7,6.8,5.8,7.6,6.3,6.0,6.7,4.9,7.3,7.2,7.7,6.4,7.9,6.7,6.4,6.0,6.7,6.9,6.9,6.3,7.7,6.9,6.3,7.2,7.4,6.3,5.7,6.2,6.5,6.4,7.0809193435057844,7.083173588303286,6.531247271426038,7.672934707178735,6.616221396434428,6.2881911448763015,7.238706989249322,6.90906910202694,7.684772414682669,5.87232495943579,5.759085295754035,5.914173836043854,5.784761157227475,7.330621751983531,6.911589973694344,7.78951313611976,7.048675134000101],"xaxis":"x3","yaxis":"y3","type":"box"},{"alignmentgroup":"True","hovertemplate":"variety=Virginica<br>sepal_width=%{y}<extra></extra>","legendgroup":"Virginica","marker":{"color":"#00cc96","symbol":"circle"},"name":"Virginica","offsetgroup":"Virginica","scalegroup":"y","showlegend":false,"xaxis":"x2","y":[3.3,3.0,3.0,2.8,2.6,2.7,3.0,2.5,3.2,3.0,3.1,3.2,3.8,3.2,2.8,3.0,3.4,3.0,3.3,3.0,3.0,2.8,3.0,2.7,3.0,3.3,2.5,2.9,3.2,2.6,3.1,3.8,2.5,2.7,2.2,3.0,3.2,3.1,2.8,2.8,3.1,3.4,3.6,2.8,2.9,2.5,2.8,3.0,2.8,2.364774618887905,3.20977222695023,3.0790349799807095,2.303166383713453,3.618727239236774,3.0262152412720584,3.058037433028688,3.132485473954982,2.9929238355741736,3.440406497670909,3.6572642225436693,2.344429562939209,3.7433242436796372,2.458916076656201,3.5731428078520726,2.696475852448689,3.6811832985059967],"yaxis":"y2","type":"violin"},{"hovertemplate":"<b>OLS trendline</b><br>sepal_width = 0.0800822 * sepal_length + 2.47295<br>R<sup>2</sup>=0.018895<br><br>variety=Virginica<br>sepal_length=%{x}<br>sepal_width=%{y} <b>(trend)</b><extra></extra>","legendgroup":"Virginica","marker":{"color":"#00cc96","symbol":"circle"},"mode":"lines","name":"Virginica","showlegend":false,"x":[4.9,5.6,5.7,5.759085295754035,5.784761157227475,5.8,5.8,5.87232495943579,5.9,5.914173836043854,6.0,6.0,6.1,6.1,6.2,6.2,6.2881911448763015,6.3,6.3,6.3,6.3,6.3,6.3,6.4,6.4,6.4,6.4,6.4,6.5,6.5,6.5,6.5,6.531247271426038,6.616221396434428,6.7,6.7,6.7,6.7,6.7,6.8,6.8,6.9,6.9,6.9,6.90906910202694,6.911589973694344,7.048675134000101,7.0809193435057844,7.083173588303286,7.1,7.2,7.2,7.2,7.238706989249322,7.3,7.330621751983531,7.4,7.6,7.672934707178735,7.684772414682669,7.7,7.7,7.7,7.7,7.78951313611976,7.9],"xaxis":"x","y":[2.865355961001777,2.9214134781292027,2.9294216948616922,2.9341533734027077,2.9362095520374343,2.9374299115941813,2.9374299115941813,2.943221851097485,2.945438128326671,2.9465731998363704,2.9534463450591604,2.9534463450591604,2.9614545617916495,2.9614545617916495,2.969462778524139,2.969462778524139,2.976525316544697,2.9774709952566285,2.9774709952566285,2.9774709952566285,2.9774709952566285,2.9774709952566285,2.9774709952566285,2.985479211989118,2.985479211989118,2.985479211989118,2.985479211989118,2.985479211989118,2.9934874287216076,2.9934874287216076,2.9934874287216076,2.9934874287216076,2.9959897779403937,3.002794690037602,3.009503862186586,3.009503862186586,3.009503862186586,3.009503862186586,3.009503862186586,3.0175120789190757,3.0175120789190757,3.0255202956515648,3.0255202956515648,3.0255202956515648,3.026246568997573,3.0264484458642467,3.037426522609612,3.040008708790505,3.0401892335995697,3.041536729116544,3.0495449458490334,3.0495449458490334,3.0495449458490334,3.0526446854387403,3.0575531625815224,3.0600054188476493,3.065561379314012,3.081577812778991,3.08741858220307,3.0883665714761435,3.08958602951148,3.08958602951148,3.08958602951148,3.08958602951148,3.096754435455999,3.105602462976459],"yaxis":"y","type":"scatter"},{"hovertemplate":"sepal_length=%{x}<br>sepal_width=%{y}<extra></extra>","legendgroup":"","marker":{"color":"yellow","size":10,"symbol":"circle"},"mode":"markers","name":"","orientation":"v","showlegend":false,"x":[4.859736966382209],"xaxis":"x","y":[3.0049918169979595],"yaxis":"y","type":"scatter"}],                        {"template":{"data":{"histogram2dcontour":[{"type":"histogram2dcontour","colorbar":{"outlinewidth":0,"ticks":""},"colorscale":[[0.0,"#0d0887"],[0.1111111111111111,"#46039f"],[0.2222222222222222,"#7201a8"],[0.3333333333333333,"#9c179e"],[0.4444444444444444,"#bd3786"],[0.5555555555555556,"#d8576b"],[0.6666666666666666,"#ed7953"],[0.7777777777777778,"#fb9f3a"],[0.8888888888888888,"#fdca26"],[1.0,"#f0f921"]]}],"choropleth":[{"type":"choropleth","colorbar":{"outlinewidth":0,"ticks":""}}],"histogram2d":[{"type":"histogram2d","colorbar":{"outlinewidth":0,"ticks":""},"colorscale":[[0.0,"#0d0887"],[0.1111111111111111,"#46039f"],[0.2222222222222222,"#7201a8"],[0.3333333333333333,"#9c179e"],[0.4444444444444444,"#bd3786"],[0.5555555555555556,"#d8576b"],[0.6666666666666666,"#ed7953"],[0.7777777777777778,"#fb9f3a"],[0.8888888888888888,"#fdca26"],[1.0,"#f0f921"]]}],"heatmap":[{"type":"heatmap","colorbar":{"outlinewidth":0,"ticks":""},"colorscale":[[0.0,"#0d0887"],[0.1111111111111111,"#46039f"],[0.2222222222222222,"#7201a8"],[0.3333333333333333,"#9c179e"],[0.4444444444444444,"#bd3786"],[0.5555555555555556,"#d8576b"],[0.6666666666666666,"#ed7953"],[0.7777777777777778,"#fb9f3a"],[0.8888888888888888,"#fdca26"],[1.0,"#f0f921"]]}],"heatmapgl":[{"type":"heatmapgl","colorbar":{"outlinewidth":0,"ticks":""},"colorscale":[[0.0,"#0d0887"],[0.1111111111111111,"#46039f"],[0.2222222222222222,"#7201a8"],[0.3333333333333333,"#9c179e"],[0.4444444444444444,"#bd3786"],[0.5555555555555556,"#d8576b"],[0.6666666666666666,"#ed7953"],[0.7777777777777778,"#fb9f3a"],[0.8888888888888888,"#fdca26"],[1.0,"#f0f921"]]}],"contourcarpet":[{"type":"contourcarpet","colorbar":{"outlinewidth":0,"ticks":""}}],"contour":[{"type":"contour","colorbar":{"outlinewidth":0,"ticks":""},"colorscale":[[0.0,"#0d0887"],[0.1111111111111111,"#46039f"],[0.2222222222222222,"#7201a8"],[0.3333333333333333,"#9c179e"],[0.4444444444444444,"#bd3786"],[0.5555555555555556,"#d8576b"],[0.6666666666666666,"#ed7953"],[0.7777777777777778,"#fb9f3a"],[0.8888888888888888,"#fdca26"],[1.0,"#f0f921"]]}],"surface":[{"type":"surface","colorbar":{"outlinewidth":0,"ticks":""},"colorscale":[[0.0,"#0d0887"],[0.1111111111111111,"#46039f"],[0.2222222222222222,"#7201a8"],[0.3333333333333333,"#9c179e"],[0.4444444444444444,"#bd3786"],[0.5555555555555556,"#d8576b"],[0.6666666666666666,"#ed7953"],[0.7777777777777778,"#fb9f3a"],[0.8888888888888888,"#fdca26"],[1.0,"#f0f921"]]}],"mesh3d":[{"type":"mesh3d","colorbar":{"outlinewidth":0,"ticks":""}}],"scatter":[{"fillpattern":{"fillmode":"overlay","size":10,"solidity":0.2},"type":"scatter"}],"parcoords":[{"type":"parcoords","line":{"colorbar":{"outlinewidth":0,"ticks":""}}}],"scatterpolargl":[{"type":"scatterpolargl","marker":{"colorbar":{"outlinewidth":0,"ticks":""}}}],"bar":[{"error_x":{"color":"#2a3f5f"},"error_y":{"color":"#2a3f5f"},"marker":{"line":{"color":"#E5ECF6","width":0.5},"pattern":{"fillmode":"overlay","size":10,"solidity":0.2}},"type":"bar"}],"scattergeo":[{"type":"scattergeo","marker":{"colorbar":{"outlinewidth":0,"ticks":""}}}],"scatterpolar":[{"type":"scatterpolar","marker":{"colorbar":{"outlinewidth":0,"ticks":""}}}],"histogram":[{"marker":{"pattern":{"fillmode":"overlay","size":10,"solidity":0.2}},"type":"histogram"}],"scattergl":[{"type":"scattergl","marker":{"colorbar":{"outlinewidth":0,"ticks":""}}}],"scatter3d":[{"type":"scatter3d","line":{"colorbar":{"outlinewidth":0,"ticks":""}},"marker":{"colorbar":{"outlinewidth":0,"ticks":""}}}],"scattermapbox":[{"type":"scattermapbox","marker":{"colorbar":{"outlinewidth":0,"ticks":""}}}],"scatterternary":[{"type":"scatterternary","marker":{"colorbar":{"outlinewidth":0,"ticks":""}}}],"scattercarpet":[{"type":"scattercarpet","marker":{"colorbar":{"outlinewidth":0,"ticks":""}}}],"carpet":[{"aaxis":{"endlinecolor":"#2a3f5f","gridcolor":"white","linecolor":"white","minorgridcolor":"white","startlinecolor":"#2a3f5f"},"baxis":{"endlinecolor":"#2a3f5f","gridcolor":"white","linecolor":"white","minorgridcolor":"white","startlinecolor":"#2a3f5f"},"type":"carpet"}],"table":[{"cells":{"fill":{"color":"#EBF0F8"},"line":{"color":"white"}},"header":{"fill":{"color":"#C8D4E3"},"line":{"color":"white"}},"type":"table"}],"barpolar":[{"marker":{"line":{"color":"#E5ECF6","width":0.5},"pattern":{"fillmode":"overlay","size":10,"solidity":0.2}},"type":"barpolar"}],"pie":[{"automargin":true,"type":"pie"}]},"layout":{"autotypenumbers":"strict","colorway":["#636efa","#EF553B","#00cc96","#ab63fa","#FFA15A","#19d3f3","#FF6692","#B6E880","#FF97FF","#FECB52"],"font":{"color":"#2a3f5f"},"hovermode":"closest","hoverlabel":{"align":"left"},"paper_bgcolor":"white","plot_bgcolor":"#E5ECF6","polar":{"bgcolor":"#E5ECF6","angularaxis":{"gridcolor":"white","linecolor":"white","ticks":""},"radialaxis":{"gridcolor":"white","linecolor":"white","ticks":""}},"ternary":{"bgcolor":"#E5ECF6","aaxis":{"gridcolor":"white","linecolor":"white","ticks":""},"baxis":{"gridcolor":"white","linecolor":"white","ticks":""},"caxis":{"gridcolor":"white","linecolor":"white","ticks":""}},"coloraxis":{"colorbar":{"outlinewidth":0,"ticks":""}},"colorscale":{"sequential":[[0.0,"#0d0887"],[0.1111111111111111,"#46039f"],[0.2222222222222222,"#7201a8"],[0.3333333333333333,"#9c179e"],[0.4444444444444444,"#bd3786"],[0.5555555555555556,"#d8576b"],[0.6666666666666666,"#ed7953"],[0.7777777777777778,"#fb9f3a"],[0.8888888888888888,"#fdca26"],[1.0,"#f0f921"]],"sequentialminus":[[0.0,"#0d0887"],[0.1111111111111111,"#46039f"],[0.2222222222222222,"#7201a8"],[0.3333333333333333,"#9c179e"],[0.4444444444444444,"#bd3786"],[0.5555555555555556,"#d8576b"],[0.6666666666666666,"#ed7953"],[0.7777777777777778,"#fb9f3a"],[0.8888888888888888,"#fdca26"],[1.0,"#f0f921"]],"diverging":[[0,"#8e0152"],[0.1,"#c51b7d"],[0.2,"#de77ae"],[0.3,"#f1b6da"],[0.4,"#fde0ef"],[0.5,"#f7f7f7"],[0.6,"#e6f5d0"],[0.7,"#b8e186"],[0.8,"#7fbc41"],[0.9,"#4d9221"],[1,"#276419"]]},"xaxis":{"gridcolor":"white","linecolor":"white","ticks":"","title":{"standoff":15},"zerolinecolor":"white","automargin":true,"zerolinewidth":2},"yaxis":{"gridcolor":"white","linecolor":"white","ticks":"","title":{"standoff":15},"zerolinecolor":"white","automargin":true,"zerolinewidth":2},"scene":{"xaxis":{"backgroundcolor":"#E5ECF6","gridcolor":"white","linecolor":"white","showbackground":true,"ticks":"","zerolinecolor":"white","gridwidth":2},"yaxis":{"backgroundcolor":"#E5ECF6","gridcolor":"white","linecolor":"white","showbackground":true,"ticks":"","zerolinecolor":"white","gridwidth":2},"zaxis":{"backgroundcolor":"#E5ECF6","gridcolor":"white","linecolor":"white","showbackground":true,"ticks":"","zerolinecolor":"white","gridwidth":2}},"shapedefaults":{"line":{"color":"#2a3f5f"}},"annotationdefaults":{"arrowcolor":"#2a3f5f","arrowhead":0,"arrowwidth":1},"geo":{"bgcolor":"white","landcolor":"#E5ECF6","subunitcolor":"white","showland":true,"showlakes":true,"lakecolor":"white"},"title":{"x":0.05},"mapbox":{"style":"light"}}},"xaxis":{"anchor":"y","domain":[0.0,0.7363],"title":{"text":"sepal_length"}},"yaxis":{"anchor":"x","domain":[0.0,0.7326],"title":{"text":"sepal_width"}},"xaxis2":{"anchor":"y2","domain":[0.7413,1.0],"matches":"x2","showticklabels":false,"showline":false,"ticks":"","showgrid":false},"yaxis2":{"anchor":"x2","domain":[0.0,0.7326],"matches":"y","showticklabels":false,"showgrid":true},"xaxis3":{"anchor":"y3","domain":[0.0,0.7363],"matches":"x","showticklabels":false,"showgrid":true},"yaxis3":{"anchor":"x3","domain":[0.7426,1.0],"matches":"y3","showticklabels":false,"showline":false,"ticks":"","showgrid":false},"xaxis4":{"anchor":"y4","domain":[0.7413,1.0],"matches":"x2","showticklabels":false,"showgrid":false,"showline":false,"ticks":""},"yaxis4":{"anchor":"x4","domain":[0.7426,1.0],"matches":"y3","showticklabels":false,"showline":false,"ticks":"","showgrid":true},"legend":{"title":{"text":"variety"},"tracegroupgap":0},"title":{"text":"Iris Dataset"}},                        {"responsive": true}                    )                };                            </script>        </div>
